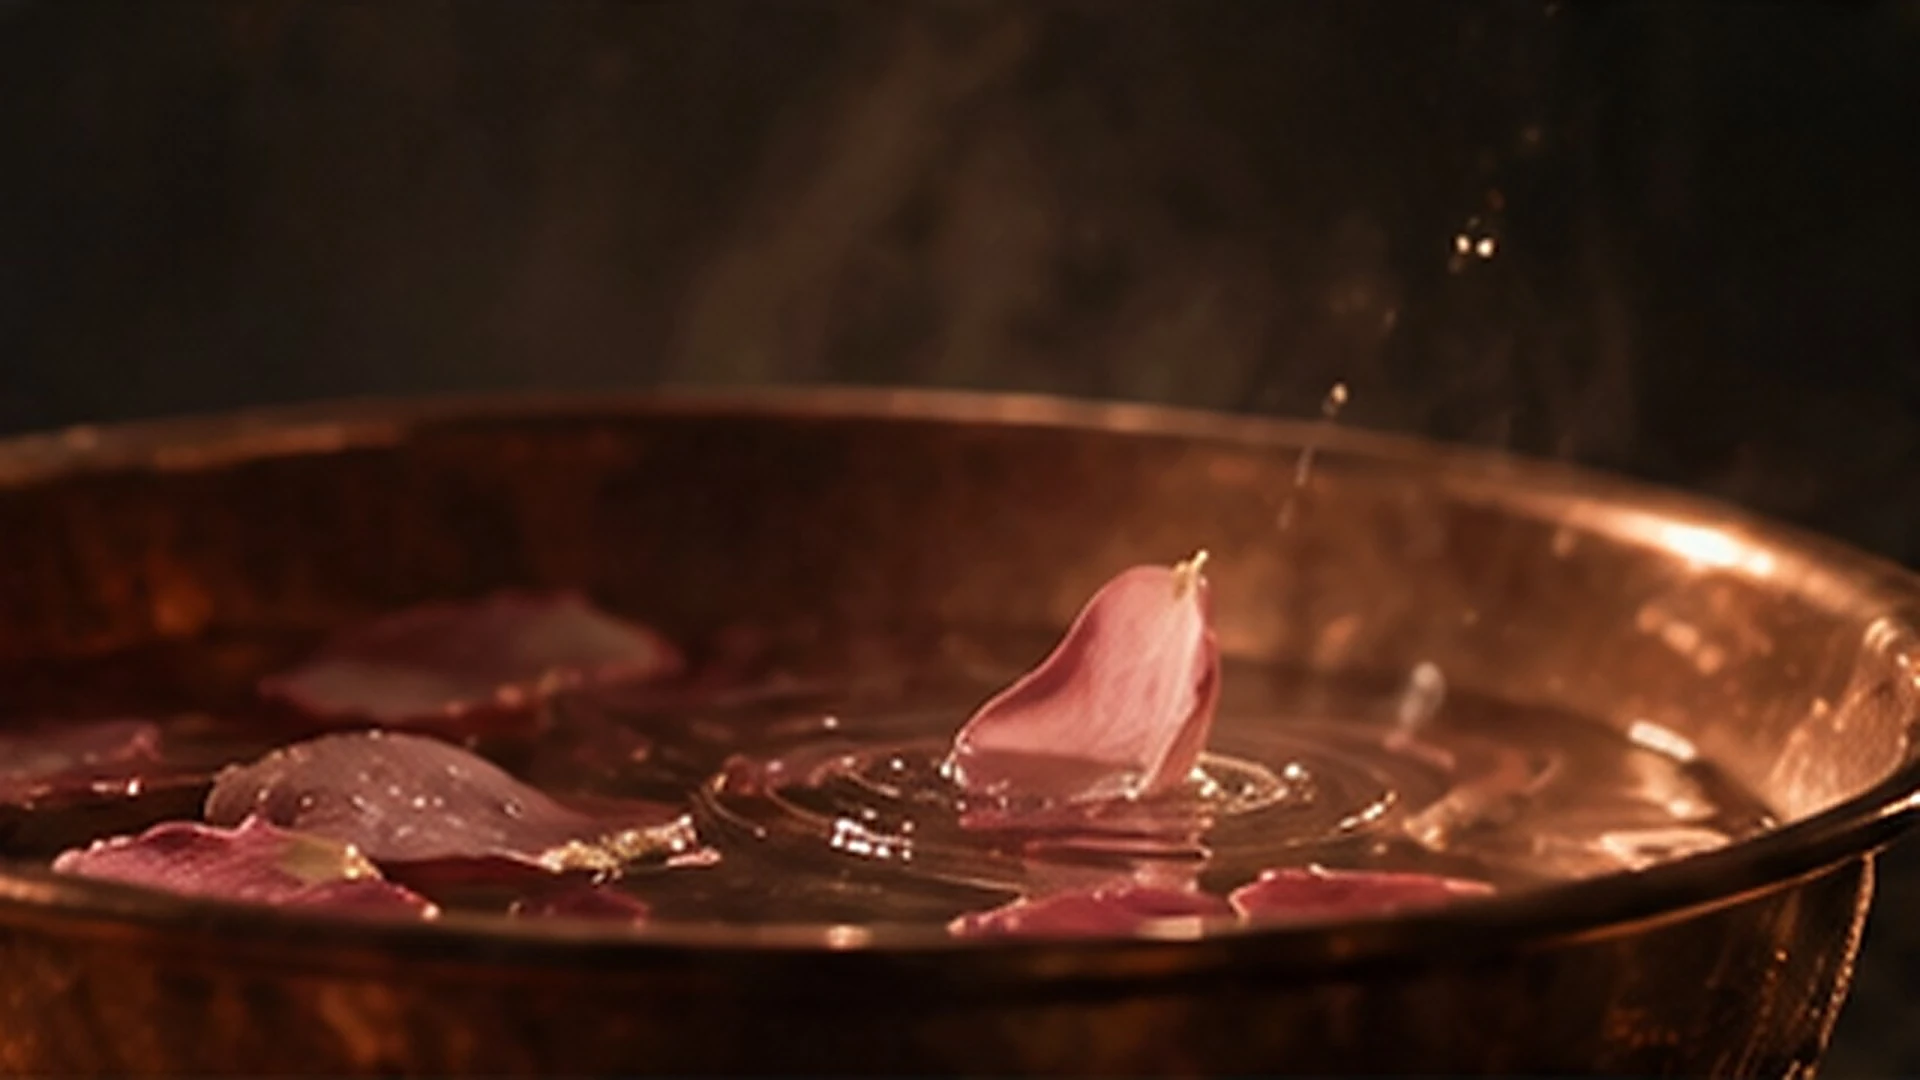
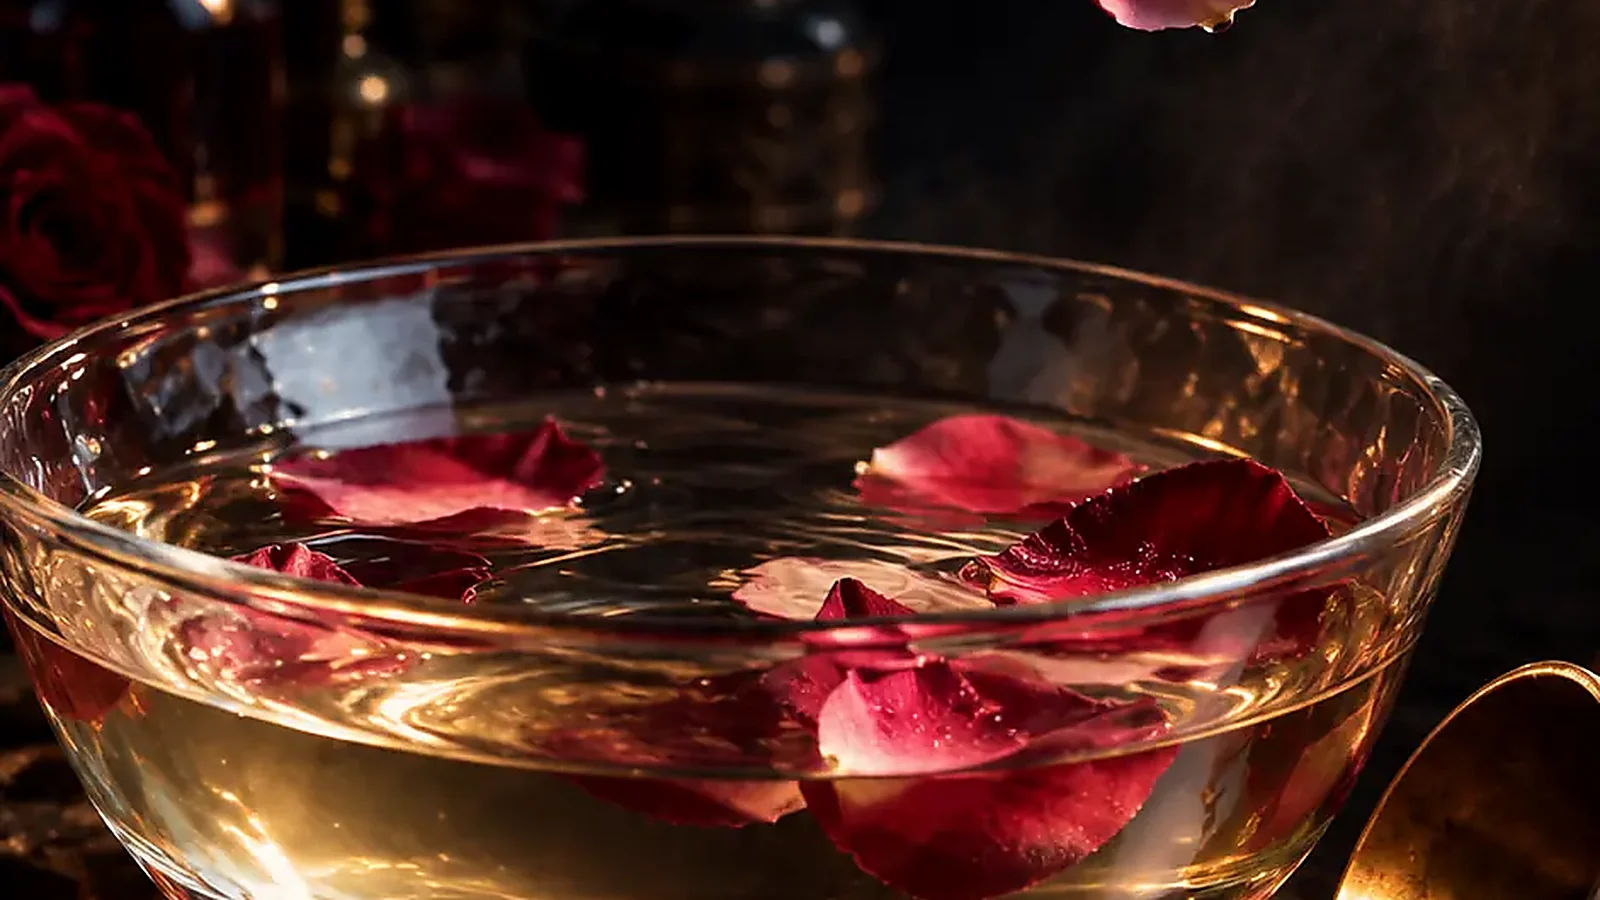
The first screen stops using the motion pack as pictures
IT WAS NEVER A RESOLUTION PROBLEM

Measured as the variance of the Laplacian with every file resampled to
the same 1280 x 720, so the number is about the picture and not its
size: the pack's sixteen keyframes score 3.7 to 24.0, mean 11.3. The
house's own scene photographs score 228 to 706, mean 397. The page
artwork scores 265 to 820, mean 458.

Forty times the detail at the same pixel count. The pack is not a small
version of a sharp picture, it is a soft picture — which is also why the
unsharp mask over it bought only 1.39x. There was almost no edge in it
to find, and a 4K re-export would be a bigger soft picture.

On the rendered page that came out as 4.8x: an identical 420 x 420 patch
of a page opening against the same patch of the home hero.

So a 16:9 band cut from a 941 x 1672 photograph — 941 wide, twenty-six
per cent FEWER pixels than the pack's 1280 — lands on screen with 2.2x
the detail. Enlarging that band to 1600 x 900 and sharpening beats both
leaving it native and going to 1920: 8.96 against 2.87 and 8.63,
measured at what a 1440 laptop at 2x actually paints, for 57 KB.

Upright screens already took the masters directly, so both shapes are
the house's pictures now. The pack stays in the repository as what it
always was: the storyboard the four acts and their movement came from.

This is also the regression. The old home hero used these photographs;
the film replaced them with pack frames, and that is when it went soft.
[…]

diff --git a/assets/hero-film.css b/assets/hero-film.css
@@ -52,6 +52,16 @@
 @keyframes fh-cam-4{from{transform:translate3d(1.2%,.5%,0) scale(1.03)}
   to{transform:translate3d(-1.0%,-.5%,0) scale(1.012)}}
 
+/* The still is the brightest of the four and its glass elbow, full of
+   lit amber, sits exactly where the second line of the headline falls on
+   a wide screen — 3.6:1 against ivory. The other three need no help, so
+   this act carries a little extra dark of its own rather than making
+   every act darker to fix one. */
+.fh-scene[data-act="3"]::after{content:"";position:absolute;inset:0;z-index:1;
+  pointer-events:none;
+  background:linear-gradient(90deg,rgba(10,7,5,.46) 0%,rgba(10,7,5,.4) 34%,
+    rgba(10,7,5,.22) 50%,rgba(10,7,5,0) 64%)}
+
 .fh-fx{position:absolute;inset:0;z-index:1;pointer-events:none;overflow:hidden}
 
 /* ── a petal: it lets go, turns as it goes, and is gone ─────────── */
@@ -123,8 +133,8 @@
   background:radial-gradient(54% 60% at 62% 44%,rgba(201,138,58,.14),transparent 70%)}
 .filmhero::after{content:"";position:absolute;inset:0;z-index:2;pointer-events:none;
   background:
-    linear-gradient(90deg,rgba(10,7,5,.92) 0%,rgba(10,7,5,.88) 26%,
-      rgba(10,7,5,.72) 40%,rgba(10,7,5,.4) 52%,rgba(10,7,5,.12) 64%,rgba(10,7,5,0) 76%),
+    linear-gradient(90deg,rgba(10,7,5,.94) 0%,rgba(10,7,5,.91) 28%,
+      rgba(10,7,5,.82) 42%,rgba(10,7,5,.55) 54%,rgba(10,7,5,.2) 66%,rgba(10,7,5,0) 80%),
     linear-gradient(0deg,rgba(10,7,5,.86) 0%,rgba(10,7,5,.5) 20%,
       rgba(10,7,5,.18) 34%,transparent 50%),
     linear-gradient(180deg,rgba(10,7,5,.72) 0%,transparent 22%)}
@@ -162,9 +172,9 @@
   /* the words take a narrower column here, so the dark they are read on
      stops sooner and lets more of the picture through */
   .filmhero::after{background:
-    linear-gradient(90deg,rgba(10,7,5,.95) 0%,rgba(10,7,5,.92) 30%,
-      rgba(10,7,5,.78) 44%,rgba(10,7,5,.42) 56%,rgba(10,7,5,.12) 68%,
-      rgba(10,7,5,0) 80%),
+    linear-gradient(90deg,rgba(10,7,5,.96) 0%,rgba(10,7,5,.94) 32%,
+      rgba(10,7,5,.86) 46%,rgba(10,7,5,.58) 58%,rgba(10,7,5,.2) 70%,
+      rgba(10,7,5,0) 84%),
     linear-gradient(180deg,rgba(10,7,5,.72) 0%,transparent 26%)}
 }
 

diff --git a/tools/filmplates.py b/tools/filmplates.py
@@ -1,97 +1,74 @@
 # -*- coding: utf-8 -*-
-"""The four scene plates for the home page's first screen.
+"""The four landscape plates for the home page's first screen.
 
-The storyboard is sixteen keyframes in which the camera and the subject
-move between one and the next, so playing them would jump. One frame per
-act is taken as a fixed plate instead — locked camera, locked subject —
-and everything that moves is animated over it as its own layer.
+WHY THESE COME FROM THE HOUSE'S OWN PHOTOGRAPHS AND NOT THE MOTION PACK
 
-Nothing is extended and nothing is composited. A keyframe is already
-16:9, so on a wide screen it fills the viewport edge to edge: real
-photograph everywhere, including under the headline, with no seam for a
-feathered panel to leave behind.
+The pack was never a resolution problem. Measured as the variance of the
+Laplacian with every file resampled to the same 1280 x 720 — so the
+number is about the picture and not its size — the sixteen keyframes
+score 3.7 to 24.0, mean 11.3. The house's four scene photographs score
+228 to 706, mean 397. Forty times the detail at the same pixel count.
+The pack is not a small version of a sharp picture; it is a soft
+picture, which is also why an unsharp mask over it bought only 1.39x:
+there was almost no edge in it to find.
 
-A phone is 9:16, which a 16:9 frame cannot cover without losing two
-thirds of its width — so each act names its own frame and its own crop
-for a phone, chosen so the subject survives the window rather than being
-cut by it.
+So a 16:9 band cut out of a 941 x 1672 photograph — 941 pixels wide,
+twenty-six per cent fewer than the pack's 1280 — lands on screen with
+2.2x the detail. Fewer pixels, sharper result. The pack remains the
+storyboard: it is what the four acts and their movement were designed
+from. It is no longer what the page paints.
 
-This writes the 16:9 plates only. An upright screen does not take a 9:16
-window of these frames any more: that window is 405 x 720, a third of a
-megapixel behind a phone that wants three, and the house already owns
-four upright photographs of the same four subjects at 1.4 to 1.6
-megapixels. assets/hero-film.js names those directly.
+Enlarging the band to 1600 x 900 and sharpening it beats both leaving it
+native and going to 1920: measured on a 1440 laptop at 2x, 8.96 against
+2.87 native and 8.63 at 1920, for 57 KB.
 
-ON SHARPNESS. Every frame in the motion pack is 1280 x 720. That is the
-ceiling: no detail can be recovered that was not in the file. What CAN be
-thrown away is most of it, and the first pass did — it enlarged to
-1920 x 1080 and then wrote WebP at quality 78, so the quantiser spent its
-bytes on interpolated gradient and smeared the copper. The pass now
-resizes once with LANCZOS, puts a real unsharp mask over the result, and
-writes at quality 90.
+An upright screen takes the master itself, uncut and unencoded a second
+time; assets/hero-film.js names those directly.
 
-If the full-resolution originals turn up, drop them in and run this
-again; nothing else needs to change.
-
-    python3 tools/filmplates.py <folder-of-keyframes>
+    python3 tools/filmplates.py
 """
 from PIL import Image, ImageFilter
 import os
-import sys
 
-OUT = '/home/user/Maisondestefanie/assets/hero'
-WIDE = (1920, 1080)
-QUALITY = 90
+ROOT = os.path.dirname(os.path.dirname(os.path.abspath(__file__)))
+SRC = os.path.join(ROOT, 'assets', 'img')
+OUT = os.path.join(ROOT, 'assets', 'hero')
 
-# act, and the frame it is held on
+WIDE = (1600, 900)
+QUALITY = 86
+
+# act, the master, and where down it the 16:9 band is taken — chosen so
+# the subject keeps to the right of the frame and the left stays dark,
+# which is where the headline is read
 PLATES = [
-    (1, 'keyframe-02.jpg'),
-    (2, 'keyframe-06.jpg'),
-    (3, 'keyframe-09.jpg'),
-    (4, 'keyframe-16.jpg'),
+    (1, 'scene-rose-941', 0.30),
+    (2, 'scene-essence-941', 0.34),
+    (3, 'scene-still-940', 0.26),
+    (4, 'frame-00-880', 0.30),
 ]
 
 
-def deframe(im, limit=6):
-    """A few of the frames carry two or three rows of pure black along an
-    edge. Enlarged they become a hairline across the screen."""
-    import numpy as np
-    a = np.asarray(im.convert('L')).astype(int)
-    col, row = a.mean(axis=0), a.mean(axis=1)
-
-    def run(v, forward):
-        n = 0
-        for i in (range(len(v)) if forward else range(len(v) - 1, -1, -1)):
-            if v[i] < limit:
-                n += 1
-            else:
-                break
-        return n
-
-    l, r = run(col, True), run(col, False)
-    t, b = run(row, True), run(row, False)
-    if l or r or t or b:
-        im = im.crop((l, t, im.width - r, im.height - b))
-    return im
+def band(im, ty):
+    """The widest 16:9 window the photograph holds, placed down it by
+    `ty`. Nothing is extended, nothing is feathered, and the picture runs
+    edge to edge."""
+    w = im.width
+    h = round(w * 9 / 16)
+    top = max(0, min(im.height - h, round((im.height - h) * ty)))
+    return im.crop((0, top, w, top + h))
 
 
-def sharpen(im):
-    """Enlarging is interpolation, and interpolation is a low-pass filter.
-    This puts the edge back — enough to read as the photograph it came
-    from, not so much that the copper picks up a halo."""
-    return im.filter(ImageFilter.UnsharpMask(radius=1.6, percent=118, threshold=3))
-
-
-def main(folder):
+def main():
     os.makedirs(OUT, exist_ok=True)
-    for act, wide_src in PLATES:
-        wide = deframe(Image.open(os.path.join(folder, wide_src)).convert('RGB'))
-        img = sharpen(wide.resize(WIDE, Image.LANCZOS))
+    for act, master, ty in PLATES:
+        im = Image.open(os.path.join(SRC, master + '.webp')).convert('RGB')
+        out = band(im, ty).resize(WIDE, Image.LANCZOS) \
+                          .filter(ImageFilter.UnsharpMask(1.5, 110, 3))
         p = os.path.join(OUT, f'plate-{act}-wide.webp')
-        img.save(p, 'WEBP', quality=QUALITY, method=6)
-        print(f'  {os.path.basename(p):22} {img.size[0]}x{img.size[1]}  '
-              f'{os.path.getsize(p)//1024} KB   <- {wide_src}')
+        out.save(p, 'WEBP', quality=QUALITY, method=6)
+        print(f'  plate-{act}-wide.webp  {out.size[0]}x{out.size[1]}  '
+              f'{os.path.getsize(p)//1024} KB   <- {master}')
 
 
 if __name__ == '__main__':
-    main(sys.argv[1] if len(sys.argv) > 1 else '.')
+    main()
